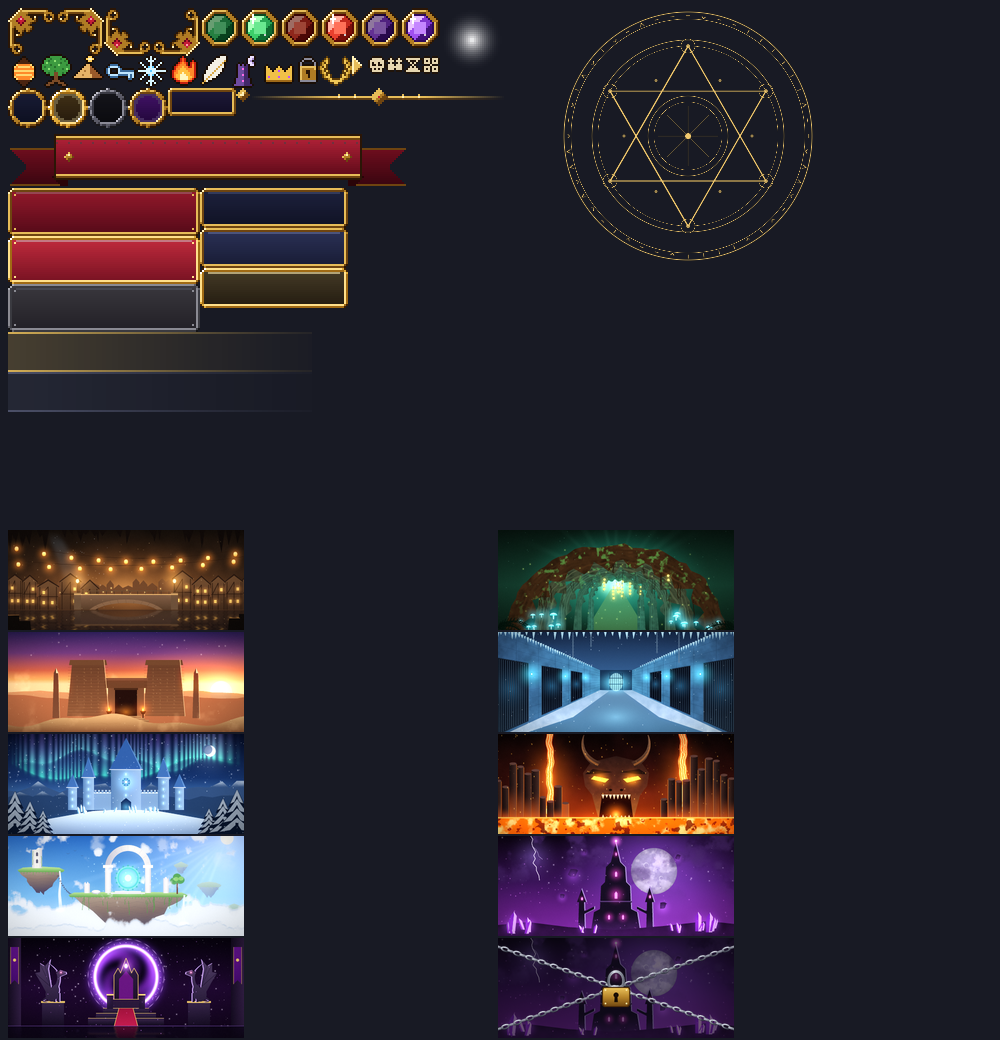
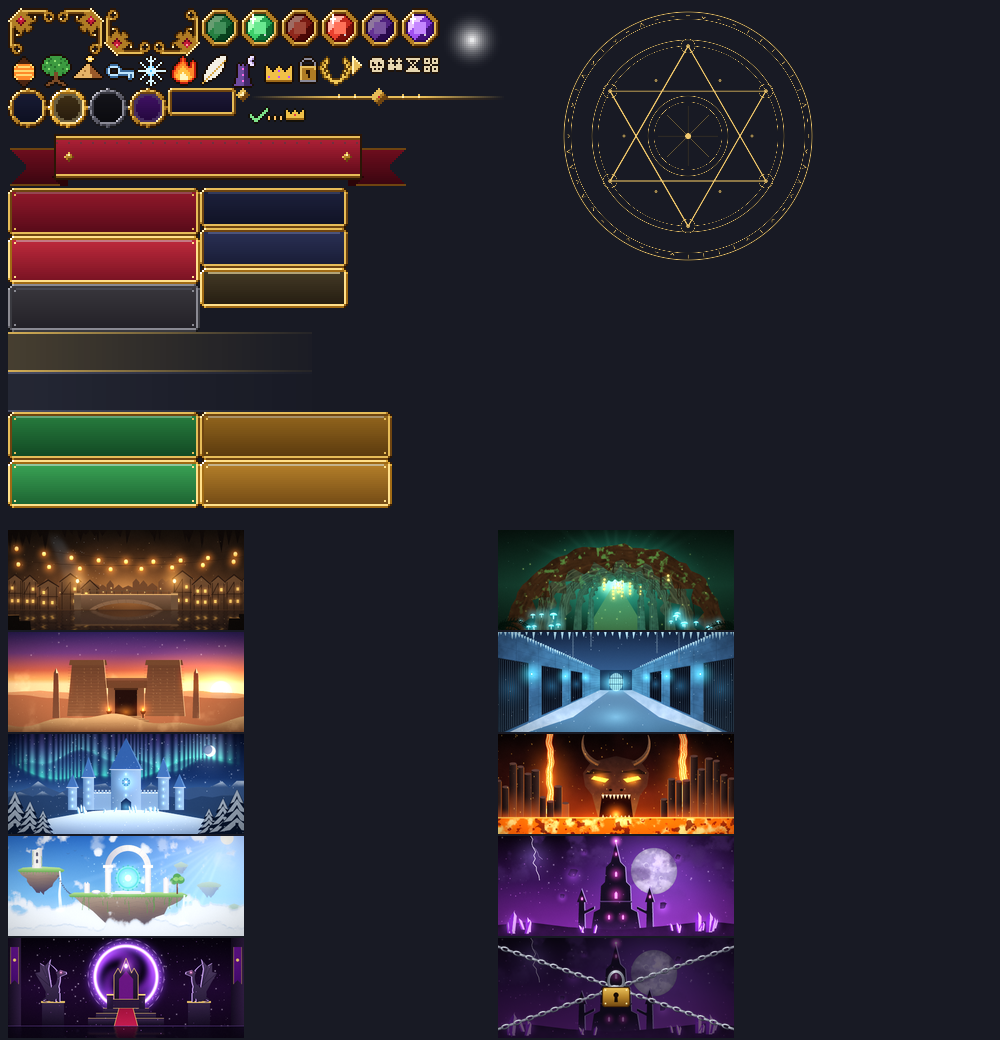
Gate atlas: ready and not-yet buttons, check and waiting marks, the leader's crown
Claude-Session: https://claude.ai/code/session_017h8AW8hdaQXmpSprvhaNJa

Changed region(s): [[0.0, 0.3692, 0.403, 0.4923], [0.248, 0.0923, 0.31, 0.1231]]

diff --git a/tools/art/gate_screen.py b/tools/art/gate_screen.py
@@ -56,6 +56,9 @@ ATLAS = {
     "button": (0, 90, 96, 24),           # three, stacked: normal, hover, disabled
     "pill": (96, 90, 74, 20),            # three, stacked: normal, hover, selected
     "row": (0, 162, 152, 20),            # two, stacked: selected, hover
+    "mark": (121, 50, 9, 9),             # three: ready (check), waiting (dots), leader (crown)
+    "ok_button": (0, 202, 96, 24),       # two, stacked: normal, hover (出発の準備: 準備OK)
+    "wait_button": (96, 202, 96, 24),    # two, stacked: normal, hover (back to 準備中)
 }
 
 GOLD = {"o": hexa("#2a1606"), "d": hexa("#6e4410"), "m": hexa("#b07c24"), "l": hexa("#e6bc58"),
@@ -434,6 +437,36 @@ POINTER = ["l.......",
            "ld......",
            "d......."]
 
+MARKS = {
+    "ready": (["........G",
+               ".......GG",
+               "......GG.",
+               "G....GG..",
+               "GG..GG...",
+               ".GGGG....",
+               "..GG.....",
+               ".........",
+               "........."], {"G": hexa("#7ee08a")}),
+    "waiting": ([".........",
+                 ".........",
+                 ".........",
+                 ".........",
+                 "A..A..A..",
+                 "A..A..A..",
+                 ".........",
+                 ".........",
+                 "........."], {"A": hexa("#ffc266")}),
+    "leader": ([".........",
+                "Y...Y...Y",
+                "YY.YYY.YY",
+                "YYYYRYYYY",
+                "YYYYYYYYY",
+                "ddddddddd",
+                ".........",
+                ".........",
+                "........."], {"Y": hexa("#f0c048"), "R": hexa("#e83a4a"), "d": hexa("#a06a18")}),
+}
+
 ICONS = {
     "boss": [".wwwww.",
              "wwwwwww",
@@ -695,6 +728,20 @@ def build_atlas():
                                                                        "m": hexa("#e0aa3a"), "l": hexa("#ffe08a"),
                                                                        "h": hexa("#ffffff")}, hexa("#ffe8a0", 170),
            studs=False)
+    kx, ky, kw, kh = ATLAS["mark"]
+    for i, name in enumerate(["ready", "waiting", "leader"]):
+        rows, pal = MARKS[name]
+        from_map(px, rows, pal, kx + i * kw, ky, outline=hexa("#141008"))
+    gx2, gy2, gw2, gh2 = ATLAS["ok_button"]
+    plaque(px, gx2, gy2, gw2, gh2, (40, 128, 64), (18, 70, 34), GOLD, hexa("#8ae8a0", 170))
+    plaque(px, gx2, gy2 + gh2, gw2, gh2, (60, 168, 88), (28, 96, 48), {"o": hexa("#3a2006"), "d": hexa("#a06a14"),
+                                                                        "m": hexa("#e0aa3a"), "l": hexa("#ffe08a"),
+                                                                        "h": hexa("#ffffff")}, hexa("#b8ffc8", 190))
+    wx, wy, ww, wh = ATLAS["wait_button"]
+    plaque(px, wx, wy, ww, wh, (150, 104, 30), (88, 56, 14), GOLD, hexa("#ffd890", 160))
+    plaque(px, wx, wy + wh, ww, wh, (186, 132, 44), (112, 72, 20), {"o": hexa("#3a2006"), "d": hexa("#a06a14"),
+                                                                       "m": hexa("#e0aa3a"), "l": hexa("#ffe08a"),
+                                                                       "h": hexa("#ffffff")}, hexa("#ffe8b0", 190))
     rx, ry, rw, rh = ATLAS["row"]
     row_overlay(px, rx, ry, rw, rh, (255, 208, 96), 0.42)
     row_overlay(px, rx, ry + rh, rw, rh, (190, 200, 255), 0.16)
